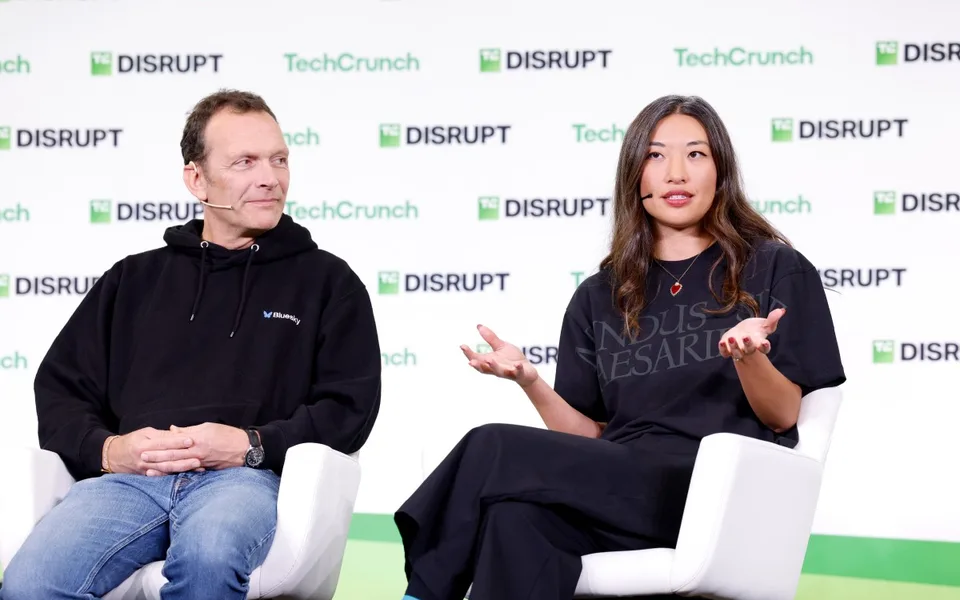
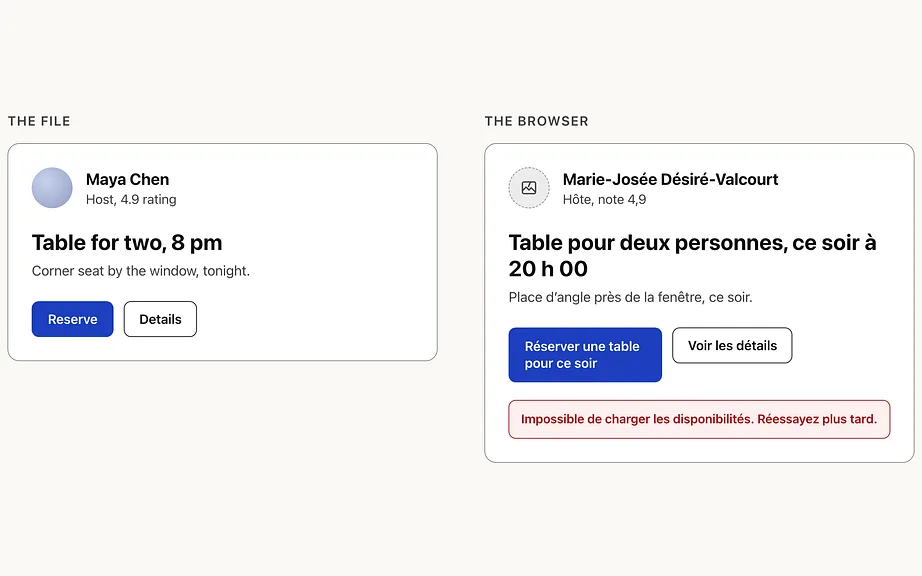
🔄 261020 예비 기사로 교체 (6번)

diff --git a/2026-10-20/index.html b/2026-10-20/index.html
@@ -88,7 +88,7 @@ body { font-family:'Pretendard',-apple-system,BlinkMacSystemFont,system-ui,sans-
 @media (min-width: 1200px) { .agit-cta { padding: 40px 0 36px; } }
 /*GNB-CSS-START*/html{scroll-padding-top:var(--gnb-h,55px);scroll-behavior:smooth;}html,body,.toc-list{scrollbar-width:none;-ms-overflow-style:none;}html::-webkit-scrollbar,body::-webkit-scrollbar,.toc-list::-webkit-scrollbar{display:none;width:0;height:0;}body{padding-top:var(--gnb-h,55px);}:root{--gnb-bg:rgba(255,255,255,0.32);--gnb-date-color:rgba(25,25,25,0.48);}@media (prefers-color-scheme:dark){:root{--gnb-bg:rgba(26,26,26,0.32);--gnb-date-color:rgba(232,232,232,0.48);}}.gnb{position:fixed;top:0;left:0;right:0;z-index:100;height:55px;background:var(--gnb-bg);backdrop-filter:blur(8px);-webkit-backdrop-filter:blur(8px);pointer-events:none;}.gnb-inner{position:absolute;top:0;left:0;right:0;padding:12px 20px;display:flex;align-items:center;justify-content:space-between;gap:16px;pointer-events:auto;}.gnb-brand{display:flex;flex-direction:row;align-items:center;gap:6px;color:var(--text);text-decoration:none;white-space:nowrap;cursor:pointer;-webkit-tap-highlight-color:transparent;}.gnb-brand-name{font-family:'Pretendard',inherit;font-weight:700;font-size:18px;line-height:normal;}.gnb-date{font-family:'Pretendard',inherit;font-weight:600;font-size:14px;line-height:normal;color:var(--gnb-date-color);font-variant-numeric:tabular-nums;}.gnb-toc-btn{display:inline-flex;align-items:center;gap:4px;padding:8px 11px;background:var(--text);border:0;border-radius:999px;box-shadow:0 0 32px rgba(0,0,0,0.02);cursor:pointer;font-family:inherit;color:var(--surface);line-height:1;transition:opacity 0.18s;-webkit-tap-highlight-color:transparent;}@media (hover:hover){.gnb-toc-btn:hover{opacity:0.85;}}.gnb-toc-btn:active{opacity:0.75;}.gnb-toc-label{font-weight:500;font-size:13px;}.gnb-toc-progress{display:inline-flex;align-items:center;background:transparent;padding:0;border-radius:0;color:inherit;font-variant-numeric:tabular-nums;font-weight:700;font-size:14px;letter-spacing:0.28px;}.gnb-progress-fill{position:absolute;bottom:0;left:0;height:2px;width:0;background:var(--text);transition:width 0.1s linear;pointer-events:none;}body.toc-open{overflow:hidden;}.toc-panel{position:fixed;inset:0;z-index:300;visibility:hidden;pointer-events:none;}.toc-panel.open{visibility:visible;pointer-events:auto;}.toc-overlay{position:absolute;top:0;left:0;right:0;bottom:0;background:rgba(0,0,0,0.4);opacity:0;transition:opacity 0.25s ease;}.toc-panel.open .toc-overlay{opacity:1;}.toc-drawer{position:absolute;top:0;left:0;right:0;bottom:0;background:var(--surface);transform:translateY(100%);transition:transform 0.38s cubic-bezier(0.32,0.72,0,1);display:flex;flex-direction:column;padding-top:env(safe-area-inset-top,0px);}.toc-panel.open .toc-drawer{transform:translateY(0);}.toc-header{display:flex;align-items:center;justify-content:space-between;padding:18px 20px 14px;flex-shrink:0;}.toc-title{font-size:18px;font-weight:700;letter-spacing:-0.01em;color:var(--text);}.toc-close{background:transparent;border:0;font-size:28px;cursor:pointer;color:var(--text2);padding:0 6px;line-height:1;font-family:inherit;}.toc-close:hover{color:var(--text);}.toc-list{list-style:none;padding:4px 12px 32px;margin:0;overflow-y:auto;flex:1;-webkit-overflow-scrolling:touch;}.toc-list li{margin:0;}.toc-item{display:flex;gap:14px;align-items:flex-start;padding:14px 14px;text-decoration:none;color:inherit;border-radius:10px;opacity:0;transform:translateY(20px);transition:opacity 0.4s ease,transform 0.5s cubic-bezier(0.32,0.72,0,1),background-color 0.18s,color 0.18s;}.toc-panel.open .toc-item{opacity:1;transform:translateY(0);}.toc-item:hover{background:var(--page);}.toc-num{font-size:16px;line-height:1.5;font-weight:500;color:rgba(0,0,0,0.32);flex-shrink:0;min-width:24px;font-variant-numeric:tabular-nums;}.toc-text{font-size:16px;line-height:1.5;color:rgba(0,0,0,0.32);word-break:keep-all;font-weight:500;}@media (prefers-color-scheme:dark){.toc-num,.toc-text{color:rgba(255,255,255,0.32);}}.toc-item.active .toc-num,.toc-item.active .toc-text{color:var(--text);font-weight:700;}.article-label{display:block;margin-bottom:10px;padding:0;background:transparent;border:0;border-radius:0;font-size:15px;font-weight:700;letter-spacing:0.04em;color:var(--text);font-variant-numeric:tabular-nums;line-height:1;text-transform:none;}.link-box{padding:8px 12px;}.agit-cta{display:flex;gap:10px;margin:0 20px;border-top:1px solid var(--line);padding:20px 0 28px;text-align:left;}.back-to-top,.agit-cta-btn{flex:1;display:inline-flex;align-items:center;justify-content:center;width:auto;height:44px;padding:0 16px;background:var(--text);color:var(--surface) !important;border:0;border-radius:8px;font-size:13px;font-weight:600;font-family:inherit;cursor:pointer;text-decoration:none;letter-spacing:-0.01em;transition:opacity 0.18s;-webkit-tap-highlight-color:transparent;}@media (hover:hover){.back-to-top:hover,.agit-cta-btn:hover{opacity:0.85;}}.back-to-top:active,.agit-cta-btn:active{opacity:0.75;}.back-to-top:focus,.agit-cta-btn:focus{outline:none;}.back-to-top:focus-visible,.agit-cta-btn:focus-visible{outline:2px solid var(--text2);outline-offset:2px;}@media (min-width:768px){html,body{background:var(--surface);}.card{border:0;border-radius:0;}}@media (min-width:768px){.gnb-inner{padding:14px 32px;}.toc-drawer{left:auto;width:420px;max-width:92vw;transform:translateX(100%);border-left:1px solid var(--line);box-shadow:-12px 0 40px rgba(0,0,0,0.12);}.toc-panel.open .toc-drawer{transform:translateX(0);}.toc-item{transform:translateX(30px);}.toc-panel.open .toc-item{transform:translateX(0);}.toc-header{padding:22px 24px 16px;}.toc-title{font-size:20px;}.toc-list{padding:4px 16px 40px;}.agit-cta{margin:0 32px;padding:32px 0 32px;gap:12px;}.back-to-top,.agit-cta-btn{height:48px;font-size:14px;}}.digest-intro{padding:20px 0 28px;border-bottom:1px solid var(--line);}.digest-meta{display:flex;gap:8px;font-size:13px;color:var(--text4);margin:0 0 14px;font-weight:500;font-variant-numeric:tabular-nums;}.digest-summary{font-size:17px;line-height:1.6;color:var(--text);letter-spacing:-0.01em;word-break:keep-all;margin:0;}@media (min-width:768px){.digest-intro{padding:32px 0 36px;}.digest-summary{font-size:18px;}}.pc-fabs{display:none;}@media (min-width:1200px){.gnb-inner{max-width:1320px;margin-left:auto;margin-right:auto;padding:0 40px;bottom:0;}.agit-cta{display:none;}.pc-fabs{display:grid;grid-template-columns:max-content;justify-items:stretch;gap:10px;position:fixed;bottom:32px;right:max(32px,calc(50vw - 620px));z-index:50;opacity:0;transform:translateY(8px);pointer-events:none;transition:opacity 0.25s,transform 0.25s;}.pc-fabs.visible{opacity:1;transform:translateY(0);pointer-events:auto;}.pc-fab{display:inline-flex;align-items:center;justify-content:center;gap:8px;height:50px;padding:0 20px 0 18px;background:var(--text);color:var(--surface);border:0;border-radius:999px;font-family:'Pretendard',inherit;font-size:15px;font-weight:700;letter-spacing:-0.15px;cursor:pointer;text-decoration:none;box-shadow:0 6px 6px rgba(0,0,0,0.08);transition:opacity 0.18s,transform 0.18s,box-shadow 0.18s;-webkit-tap-highlight-color:transparent;}.pc-fab svg{flex-shrink:0;display:block;}.pc-fab:hover{opacity:0.92;transform:translateY(-1px);box-shadow:0 8px 12px rgba(0,0,0,0.12);}.pc-fab:active{opacity:0.85;transform:translateY(0);box-shadow:0 4px 4px rgba(0,0,0,0.06);}.digest-intro{grid-column:1 / -1;padding:36px 0 40px;}.article-item{display:grid;grid-template-columns:minmax(0,1fr);grid-template-rows:subgrid;grid-row:span 8;}.article-item > *{min-width:0;}}@media (min-width:1600px){.gnb-inner{max-width:1800px;margin-left:auto;margin-right:auto;}.pc-fabs{right:max(32px,calc(50vw - 860px));}}@media (prefers-color-scheme:dark) and (min-width:1200px){.pc-fab{box-shadow:0 6px 12px rgba(0,0,0,0.5);}}.article-title.clickable-link,.article-summary.clickable-link,.image-frame.clickable-link,.bullet-list.clickable-link{cursor:pointer;}:root{--gnb-flash-bg:rgba(0,0,0,0.08);}@media (prefers-color-scheme:dark){:root{--gnb-flash-bg:rgba(255,255,255,0.08);}}@keyframes article-flash{0%{opacity:1;}100%{opacity:0;}}@media (min-width:1200px){.article-item{position:relative;isolation:isolate;}.article-item.flash-target::before{content:'';position:absolute;inset:0 -16px;background:var(--gnb-flash-bg);border-radius:8px;z-index:-1;pointer-events:none;animation:article-flash 2.5s ease-out forwards;}}/*GNB-CSS-END*/</style></head><body><!--GNB-HTML-START--><nav class="gnb"><div class="gnb-inner"><a href="#top" class="gnb-brand" data-gnb-top><span class="gnb-brand-name">트렌드림</span><span class="gnb-date"></span></a><button class="gnb-toc-btn" type="button" aria-expanded="false" aria-controls="toc-panel"><span class="gnb-toc-label">목차</span><span class="gnb-toc-progress"><span class="cur">1</span>/<span class="tot">0</span></span></button></div><div class="gnb-progress-fill"></div></nav><aside id="toc-panel" class="toc-panel" aria-hidden="true"><div class="toc-overlay"></div><div class="toc-drawer"><div class="toc-header"><span class="toc-title">목차</span><button type="button" class="toc-close" aria-label="목차 닫기">×</button></div><ol class="toc-list"></ol></div></aside><!--GNB-HTML-END--><div class="card"><main class="article-wrap article-list">
 <section class="digest-intro" data-static-intro><div class="digest-meta"><span>8개 기사</span><span>·</span><span>약 4분 읽기</span></div><p class="digest-summary">구글이 AI 모드 답변 상단에 인라인 링크와 출처 맥락을 더 자주 띄우기로 했어요. AI가 답을 다 주면 원문 사이트로 가는 발길이 끊긴다는 비판에 클릭 동선으로 답한 셈이에요. 블루스카이가 광고 대신 결제와 후원 기능을 붙이는 것도, 콘텐츠를 만든 사람에게 돈이 돌아가는 길을 제품 안에 직접 깔겠다는 선택이에요.</p></section>
-<script id="agit-digest-data" type="application/json">{"intro":"구글이 AI 모드 답변 상단에 인라인 링크와 출처 맥락을 더 자주 띄우기로 했어요. AI가 답을 다 주면 원문 사이트로 가는 발길이 끊긴다는 비판에 클릭 동선으로 답한 셈이에요. 블루스카이가 광고 대신 결제와 후원 기능을 붙이는 것도, 콘텐츠를 만든 사람에게 돈이 돌아가는 길을 제품 안에 직접 깔겠다는 선택이에요.","articles":[{"num":1,"title":"미션 S: 유산이 빚어낸 스포츠카의 미래","headline":"포르쉐가 917 레이스카 팬 휠을 단 미션 S를 공개했다","so_what":"미션 S는 레트로를 흉내 내지 않고 917·928의 디테일을 기능으로 다시 썼어요. 유산을 장식이 아닌 설계 언어로 쓰는 법을 볼 수 있어요.","link":"https://www.porsche.com/international/models/mission-s/","thumb":"thumb-1.jpg"},{"num":2,"title":"구글 AI 모드·AI 개요, 웹으로 더 쉽게 연결되도록 개편","headline":"구글이 AI 모드 답변 상단에 인라인 링크를 더 자주 띄운다","so_what":"선호 출처 이용자가 연초보다 7배 넘게 늘었어요. AI 답변 속에서 내 브랜드가 '골라지는 출처'가 되는 게 새 노출 전략이 되고 있어요.","link":"https://blog.google/products-and-platforms/products/search/updates-ai-mode-overviews-explore-web/","thumb":"thumb-2.webp"},{"num":3,"title":"마이크로소프트, 미켈란젤로 필체에서 영감 얻은 서체 '미켈란젤루스' 공개","headline":"마이크로소프트가 미켈란젤로 필체로 만든 서체를 무료 배포했다","so_what":"글자 하나하나를 서명과 조각 비례에서 뽑아냈어요. 연말 Microsoft 365에 들어가면 수많은 문서에서 매일 쓰이는 고전 서체가 돼요.","link":"https://designcompass.org/2026/10/09/microsoft-michelangelus-font/","thumb":"thumb-3.webp"},{"num":4,"title":"무신사, 성수에서 조조타운 팝업 열고 일본 브랜드 국내 반응 시험","headline":"무신사가 성수에서 조조타운 일본 브랜드 15곳 팝업을 열었다","so_what":"일본 거래액이 2년 새 5배 넘게 뛴 흐름을 이번엔 거꾸로 시험해요. 높은 국내가가 팝업 반응을 어떻게 가를지가 관전 포인트예요.","link":"https://byline.network/2026/10/18_281726633/","thumb":"thumb-4.webp"},{"num":5,"title":"앤트로픽이 제안한 AI 안전 법안, 사망 50명 또는 피해액 10억 달러 규모일 때만 발동","headline":"앤트로픽 AI 법안은 사망 50명 이상일 때만 출시를 막는다","so_what":"AI 기업이 스스로 규제 문턱을 숫자로 제시했어요. 기준이 높을수록 그 아래 위험은 누가 책임질지 함께 물어야 해요.","link":"https://www.tomshardware.com/tech-industry/artificial-intelligence/anthropics-proposed-ai-safety-bill-only-kicks-in-if-50-deaths-or-usd1-billion-in-damages-are-on-the-line-proposal-would-effectively-make-the-commerce-department-the-only-agency-capable-of-stopping-an-ai-model","thumb":"thumb-5.webp"},{"num":6,"title":"블루스카이, 네트워크 안에서 사고팔고 후원하기 쉽게 만든다","headline":"블루스카이가 광고 대신 게시물 후원 결제 기능을 도입한다","so_what":"후원이 블루스카이 밖 다른 앱에서도 작동하게 한다는 점이 핵심이에요. 플랫폼에 묶이지 않는 수익 구조가 실제로 가능한지 시험대가 돼요.","link":"https://techcrunch.com/2026/10/15/bluesky-wants-to-make-it-easier-to-buy-sell-and-fundraise-on-the-network/","thumb":"thumb-6.webp"},{"num":7,"title":"애플·메타 AI 협업 공개…책상 위 맥 스튜디오에서 돌아가는 AI 모델","headline":"메타의 8160억 파라미터 모델이 맥 스튜디오 몇 대로 돌아간다","so_what":"8160억 파라미터 모델이 책상 위 맥 몇 대로 돌아가요. 데이터를 밖으로 보내지 않는 로컬 AI 제품을 기획할 여지가 커졌어요.","link":"https://newspim.com/news/view/20261016000018","thumb":"thumb-7.webp"},{"num":8,"title":"테슬라 로드스터, 하늘을 나는 자동차","headline":"테슬라 신형 로드스터가 압축가스로 공중 회전을 시연했다","so_what":"SR-71과 로켓에서 따온 각진 형태로 2017년 시제품과 결별했어요. 다만 공중 기동은 한정 사양이라 쇼와 양산차를 나눠 봐야 해요.","link":"https://designcompass.org/2026/10/19/tesla-roadster-spacex-design/","thumb":"thumb-8.webp"}]}</script>
+<script id="agit-digest-data" type="application/json">{"intro":"구글이 AI 모드 답변 상단에 인라인 링크와 출처 맥락을 더 자주 띄우기로 했어요. AI가 답을 다 주면 원문 사이트로 가는 발길이 끊긴다는 비판에 클릭 동선으로 답한 셈이에요. 블루스카이가 광고 대신 결제와 후원 기능을 붙이는 것도, 콘텐츠를 만든 사람에게 돈이 돌아가는 길을 제품 안에 직접 깔겠다는 선택이에요.","articles":[{"num":1,"title":"미션 S: 유산이 빚어낸 스포츠카의 미래","headline":"포르쉐가 917 레이스카 팬 휠을 단 미션 S를 공개했다","so_what":"미션 S는 레트로를 흉내 내지 않고 917·928의 디테일을 기능으로 다시 썼어요. 유산을 장식이 아닌 설계 언어로 쓰는 법을 볼 수 있어요.","link":"https://www.porsche.com/international/models/mission-s/","thumb":"thumb-1.jpg"},{"num":2,"title":"구글 AI 모드·AI 개요, 웹으로 더 쉽게 연결되도록 개편","headline":"구글이 AI 모드 답변 상단에 인라인 링크를 더 자주 띄운다","so_what":"선호 출처 이용자가 연초보다 7배 넘게 늘었어요. AI 답변 속에서 내 브랜드가 '골라지는 출처'가 되는 게 새 노출 전략이 되고 있어요.","link":"https://blog.google/products-and-platforms/products/search/updates-ai-mode-overviews-explore-web/","thumb":"thumb-2.webp"},{"num":3,"title":"마이크로소프트, 미켈란젤로 필체에서 영감 얻은 서체 '미켈란젤루스' 공개","headline":"마이크로소프트가 미켈란젤로 필체로 만든 서체를 무료 배포했다","so_what":"글자 하나하나를 서명과 조각 비례에서 뽑아냈어요. 연말 Microsoft 365에 들어가면 수많은 문서에서 매일 쓰이는 고전 서체가 돼요.","link":"https://designcompass.org/2026/10/09/microsoft-michelangelus-font/","thumb":"thumb-3.webp"},{"num":4,"title":"무신사, 성수에서 조조타운 팝업 열고 일본 브랜드 국내 반응 시험","headline":"무신사가 성수에서 조조타운 일본 브랜드 15곳 팝업을 열었다","so_what":"일본 거래액이 2년 새 5배 넘게 뛴 흐름을 이번엔 거꾸로 시험해요. 높은 국내가가 팝업 반응을 어떻게 가를지가 관전 포인트예요.","link":"https://byline.network/2026/10/18_281726633/","thumb":"thumb-4.webp"},{"num":5,"title":"앤트로픽이 제안한 AI 안전 법안, 사망 50명 또는 피해액 10억 달러 규모일 때만 발동","headline":"앤트로픽 AI 법안은 사망 50명 이상일 때만 출시를 막는다","so_what":"AI 기업이 스스로 규제 문턱을 숫자로 제시했어요. 기준이 높을수록 그 아래 위험은 누가 책임질지 함께 물어야 해요.","link":"https://www.tomshardware.com/tech-industry/artificial-intelligence/anthropics-proposed-ai-safety-bill-only-kicks-in-if-50-deaths-or-usd1-billion-in-damages-are-on-the-line-proposal-would-effectively-make-the-commerce-department-the-only-agency-capable-of-stopping-an-ai-model","thumb":"thumb-5.webp"},{"num":6,"title":"출시하는 재료로 디자인하기","headline":"디자이너는 건축가가 돌을 알듯 코드를 알아야 한다는 주장이 나왔다","so_what":"AI가 구현을 맡을수록 디자인 파일과 실제 데이터가 들어간 화면의 차이가 더 잘 보여요. 코드로 무엇이 가능한지 아는 감각이 디자이너가 판단하는 기준이 돼요.","link":"https://uxdesign.cc/design-in-the-material-you-ship-7adf198388ee?source=rss----138adf9c44c---4","thumb":"thumb-6.webp"},{"num":7,"title":"애플·메타 AI 협업 공개…책상 위 맥 스튜디오에서 돌아가는 AI 모델","headline":"메타의 8160억 파라미터 모델이 맥 스튜디오 몇 대로 돌아간다","so_what":"8160억 파라미터 모델이 책상 위 맥 몇 대로 돌아가요. 데이터를 밖으로 보내지 않는 로컬 AI 제품을 기획할 여지가 커졌어요.","link":"https://newspim.com/news/view/20261016000018","thumb":"thumb-7.webp"},{"num":8,"title":"테슬라 로드스터, 하늘을 나는 자동차","headline":"테슬라 신형 로드스터가 압축가스로 공중 회전을 시연했다","so_what":"SR-71과 로켓에서 따온 각진 형태로 2017년 시제품과 결별했어요. 다만 공중 기동은 한정 사양이라 쇼와 양산차를 나눠 봐야 해요.","link":"https://designcompass.org/2026/10/19/tesla-roadster-spacex-design/","thumb":"thumb-8.webp"}]}</script>
 <article id="article-1" class="article-item">
 <div class="article-label">ARTICLE 01</div>
 <h2 class="article-title">미션 S: 유산이 빚어낸 스포츠카의 미래</h2>
@@ -161,17 +161,17 @@ body { font-family:'Pretendard',-apple-system,BlinkMacSystemFont,system-ui,sans-
 </article>
 <article id="article-6" class="article-item">
 <div class="article-label">ARTICLE 06</div>
-<h2 class="article-title">블루스카이, 네트워크 안에서 사고팔고 후원하기 쉽게 만든다</h2>
-<p class="article-summary">블루스카이의 광고 없는 수익화.</p>
+<h2 class="article-title">출시하는 재료로 디자인하기</h2>
+<p class="article-summary">디자이너와 코드의 새 관계.</p>
 <div class="image-frame"><img class="article-image" src="thumb-6.webp" alt="썸네일"></div>
 <div class="summary-label">SUMMARY</div>
 <ul class="bullet-list">
-<li class="bullet-item">블루스카이가 몇 달 안에 결제 기능을 도입해요. 광고에 기대지 않고 수익을 내려는 첫걸음이에요. 토니 슈나이더 CEO와 로즈 왕 COO가 TechCrunch Disrupt에서 밝혔어요.</li>
-<li class="bullet-item">이미 네트워크에서 물건을 팔고 모금하며 서로 후원하는 활동이 일어나고 있어요. 마음에 드는 게시물을 금전적으로 지원하게 하되, 블루스카이뿐 아니라 다른 앱에서도 작동하게 하겠다는 구상이에요.</li>
-<li class="bullet-item">경영진은 광고만이 유일한 모델은 아니라고 말했어요. 공익법인(PBC)이고 이용자를 가두지 않는 구조라, 가치를 만드는 사람이 수익을 가져가야 한다는 입장이에요.</li>
+<li class="bullet-item">디자이너는 건축가가 돌을 이해하듯 코드를 이해해야 한다는 주장이에요. 돌을 어떻게 깎는지가 아니라 돌로 무엇을 할 수 있는지를 알아야 한다는 거예요.</li>
+<li class="bullet-item">이제 깎는 일은 AI가 맡아요. 피드 요약은 디자인 파일 속 카드와, 실제 데이터가 들어간 브라우저 속 같은 카드를 나란히 보여줘요. 본문은 확인하지 못했어요.</li>
+<li class="bullet-item">디자인 파일에만 머물지 말고 실제 출시되는 결과물, 곧 브라우저에서 돌아가는 화면을 기준으로 디자인하라는 메시지로 읽혀요. 코드의 가능성과 한계를 아는 일이 디자이너의 역량이 돼요.</li>
 </ul>
 <div class="link-label">LINK</div>
-<div class="link-box"><a class="article-link" href="https://techcrunch.com/2026/10/15/bluesky-wants-to-make-it-easier-to-buy-sell-and-fundraise-on-the-network/" target="_blank">https://techcrunch.com/2026/10/15/bluesky-wants-to-make-it-easier-to-buy-sell-and-fundraise-on-the-network/</a></div>
+<div class="link-box"><a class="article-link" href="https://uxdesign.cc/design-in-the-material-you-ship-7adf198388ee?source=rss----138adf9c44c---4" target="_blank">https://uxdesign.cc/design-in-the-material-you-ship-7adf198388ee?source=rss----138adf9c44c---4</a></div>
 </article>
 <article id="article-7" class="article-item">
 <div class="article-label">ARTICLE 07</div>

diff --git a/index.html b/index.html
@@ -161,17 +161,17 @@ body { font-family:'Pretendard',-apple-system,BlinkMacSystemFont,system-ui,sans-
 </article>
 <article id="article-6" class="article-item">
 <div class="article-label">ARTICLE 06</div>
-<h2 class="article-title">블루스카이, 네트워크 안에서 사고팔고 후원하기 쉽게 만든다</h2>
-<p class="article-summary">블루스카이의 광고 없는 수익화.</p>
+<h2 class="article-title">출시하는 재료로 디자인하기</h2>
+<p class="article-summary">디자이너와 코드의 새 관계.</p>
 <div class="image-frame"><img class="article-image" src="2026-10-20/thumb-6.webp" alt="썸네일"></div>
 <div class="summary-label">SUMMARY</div>
 <ul class="bullet-list">
-<li class="bullet-item">블루스카이가 몇 달 안에 결제 기능을 도입해요. 광고에 기대지 않고 수익을 내려는 첫걸음이에요. 토니 슈나이더 CEO와 로즈 왕 COO가 TechCrunch Disrupt에서 밝혔어요.</li>
-<li class="bullet-item">이미 네트워크에서 물건을 팔고 모금하며 서로 후원하는 활동이 일어나고 있어요. 마음에 드는 게시물을 금전적으로 지원하게 하되, 블루스카이뿐 아니라 다른 앱에서도 작동하게 하겠다는 구상이에요.</li>
-<li class="bullet-item">경영진은 광고만이 유일한 모델은 아니라고 말했어요. 공익법인(PBC)이고 이용자를 가두지 않는 구조라, 가치를 만드는 사람이 수익을 가져가야 한다는 입장이에요.</li>
+<li class="bullet-item">디자이너는 건축가가 돌을 이해하듯 코드를 이해해야 한다는 주장이에요. 돌을 어떻게 깎는지가 아니라 돌로 무엇을 할 수 있는지를 알아야 한다는 거예요.</li>
+<li class="bullet-item">이제 깎는 일은 AI가 맡아요. 피드 요약은 디자인 파일 속 카드와, 실제 데이터가 들어간 브라우저 속 같은 카드를 나란히 보여줘요. 본문은 확인하지 못했어요.</li>
+<li class="bullet-item">디자인 파일에만 머물지 말고 실제 출시되는 결과물, 곧 브라우저에서 돌아가는 화면을 기준으로 디자인하라는 메시지로 읽혀요. 코드의 가능성과 한계를 아는 일이 디자이너의 역량이 돼요.</li>
 </ul>
 <div class="link-label">LINK</div>
-<div class="link-box"><a class="article-link" href="https://techcrunch.com/2026/10/15/bluesky-wants-to-make-it-easier-to-buy-sell-and-fundraise-on-the-network/" target="_blank">https://techcrunch.com/2026/10/15/bluesky-wants-to-make-it-easier-to-buy-sell-and-fundraise-on-the-network/</a></div>
+<div class="link-box"><a class="article-link" href="https://uxdesign.cc/design-in-the-material-you-ship-7adf198388ee?source=rss----138adf9c44c---4" target="_blank">https://uxdesign.cc/design-in-the-material-you-ship-7adf198388ee?source=rss----138adf9c44c---4</a></div>
 </article>
 <article id="article-7" class="article-item">
 <div class="article-label">ARTICLE 07</div>
